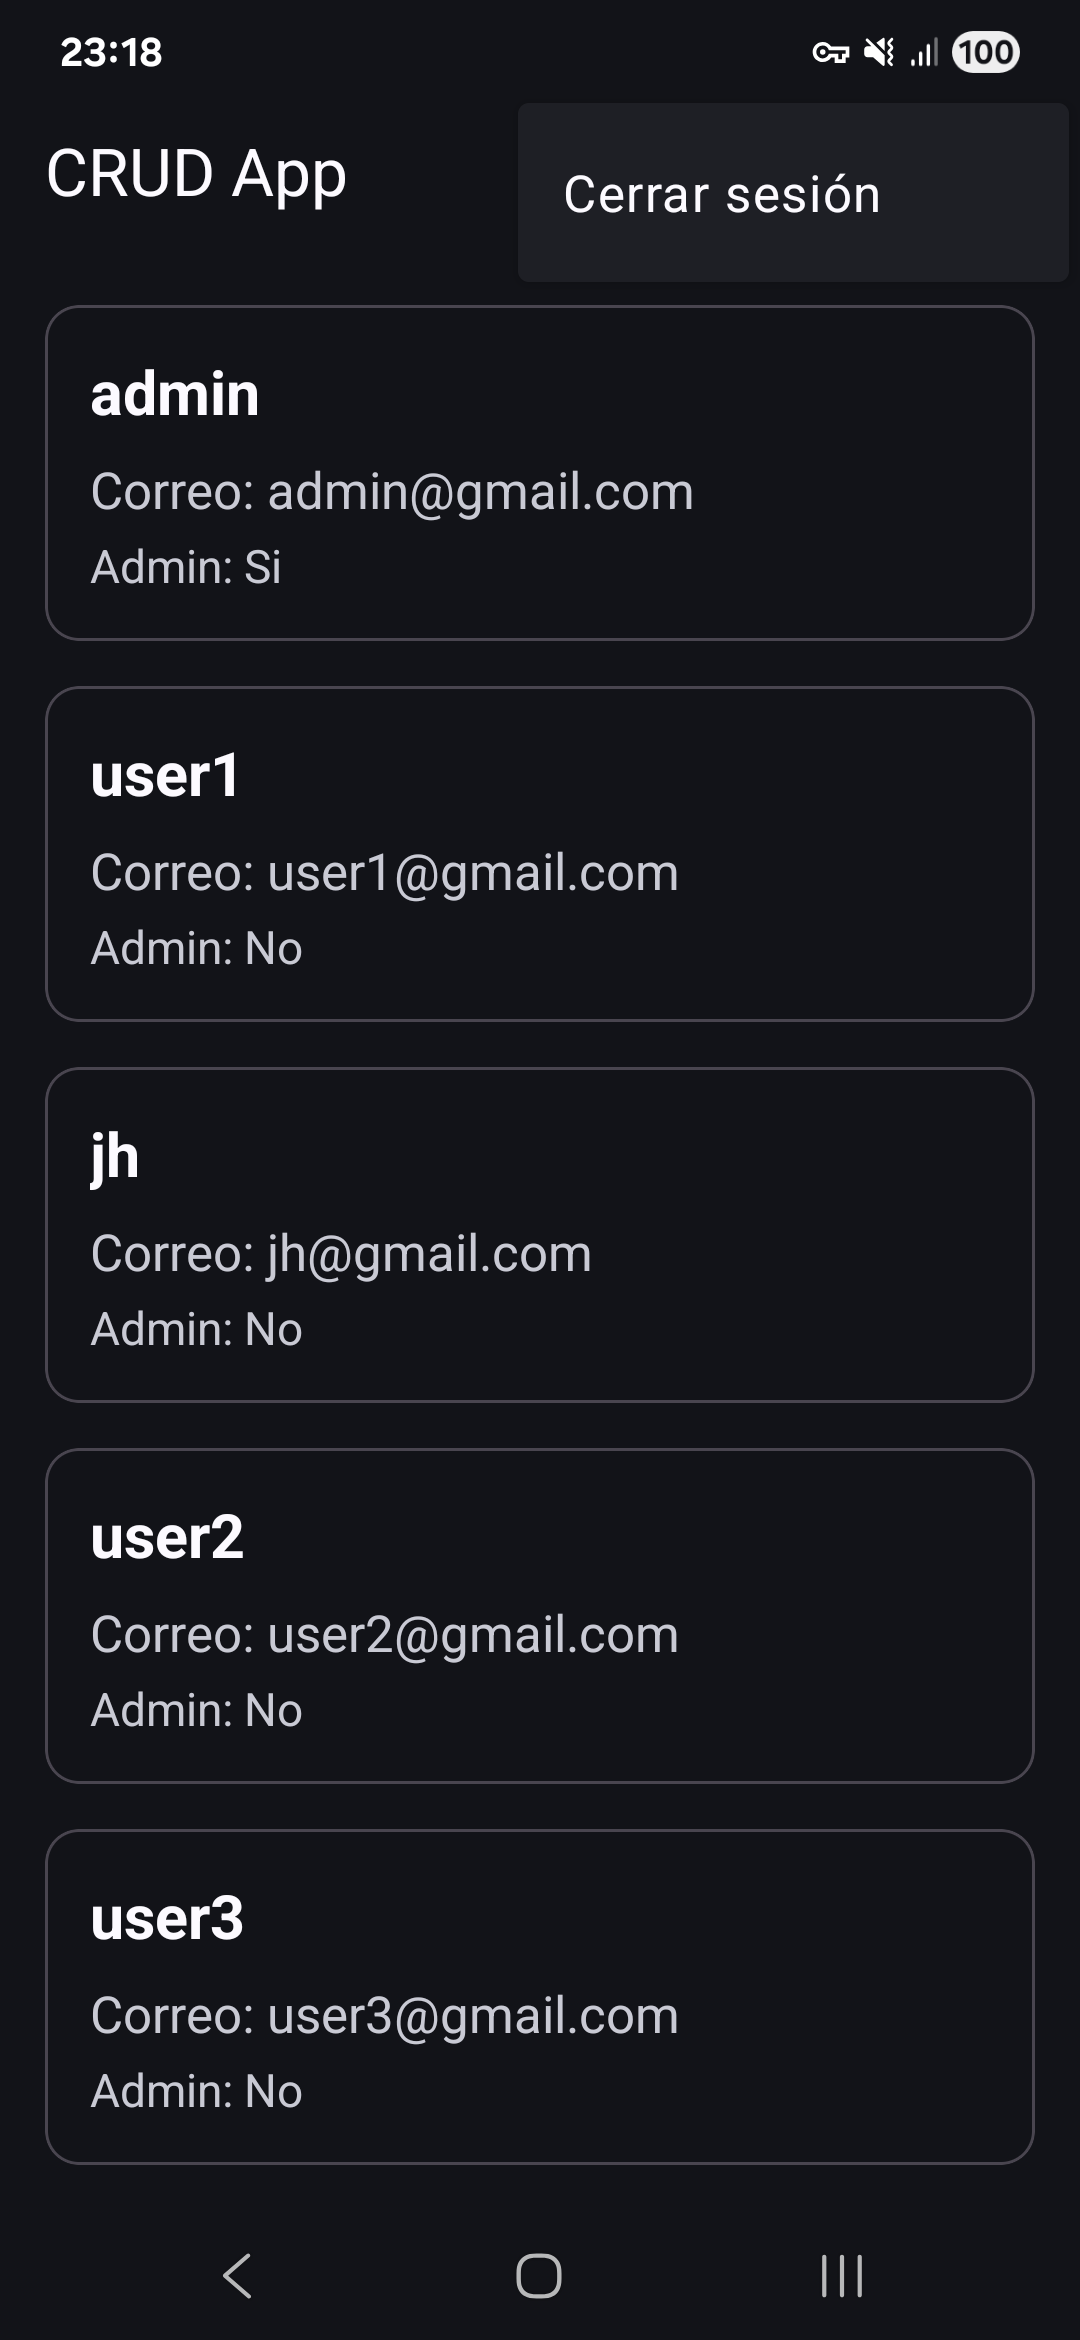
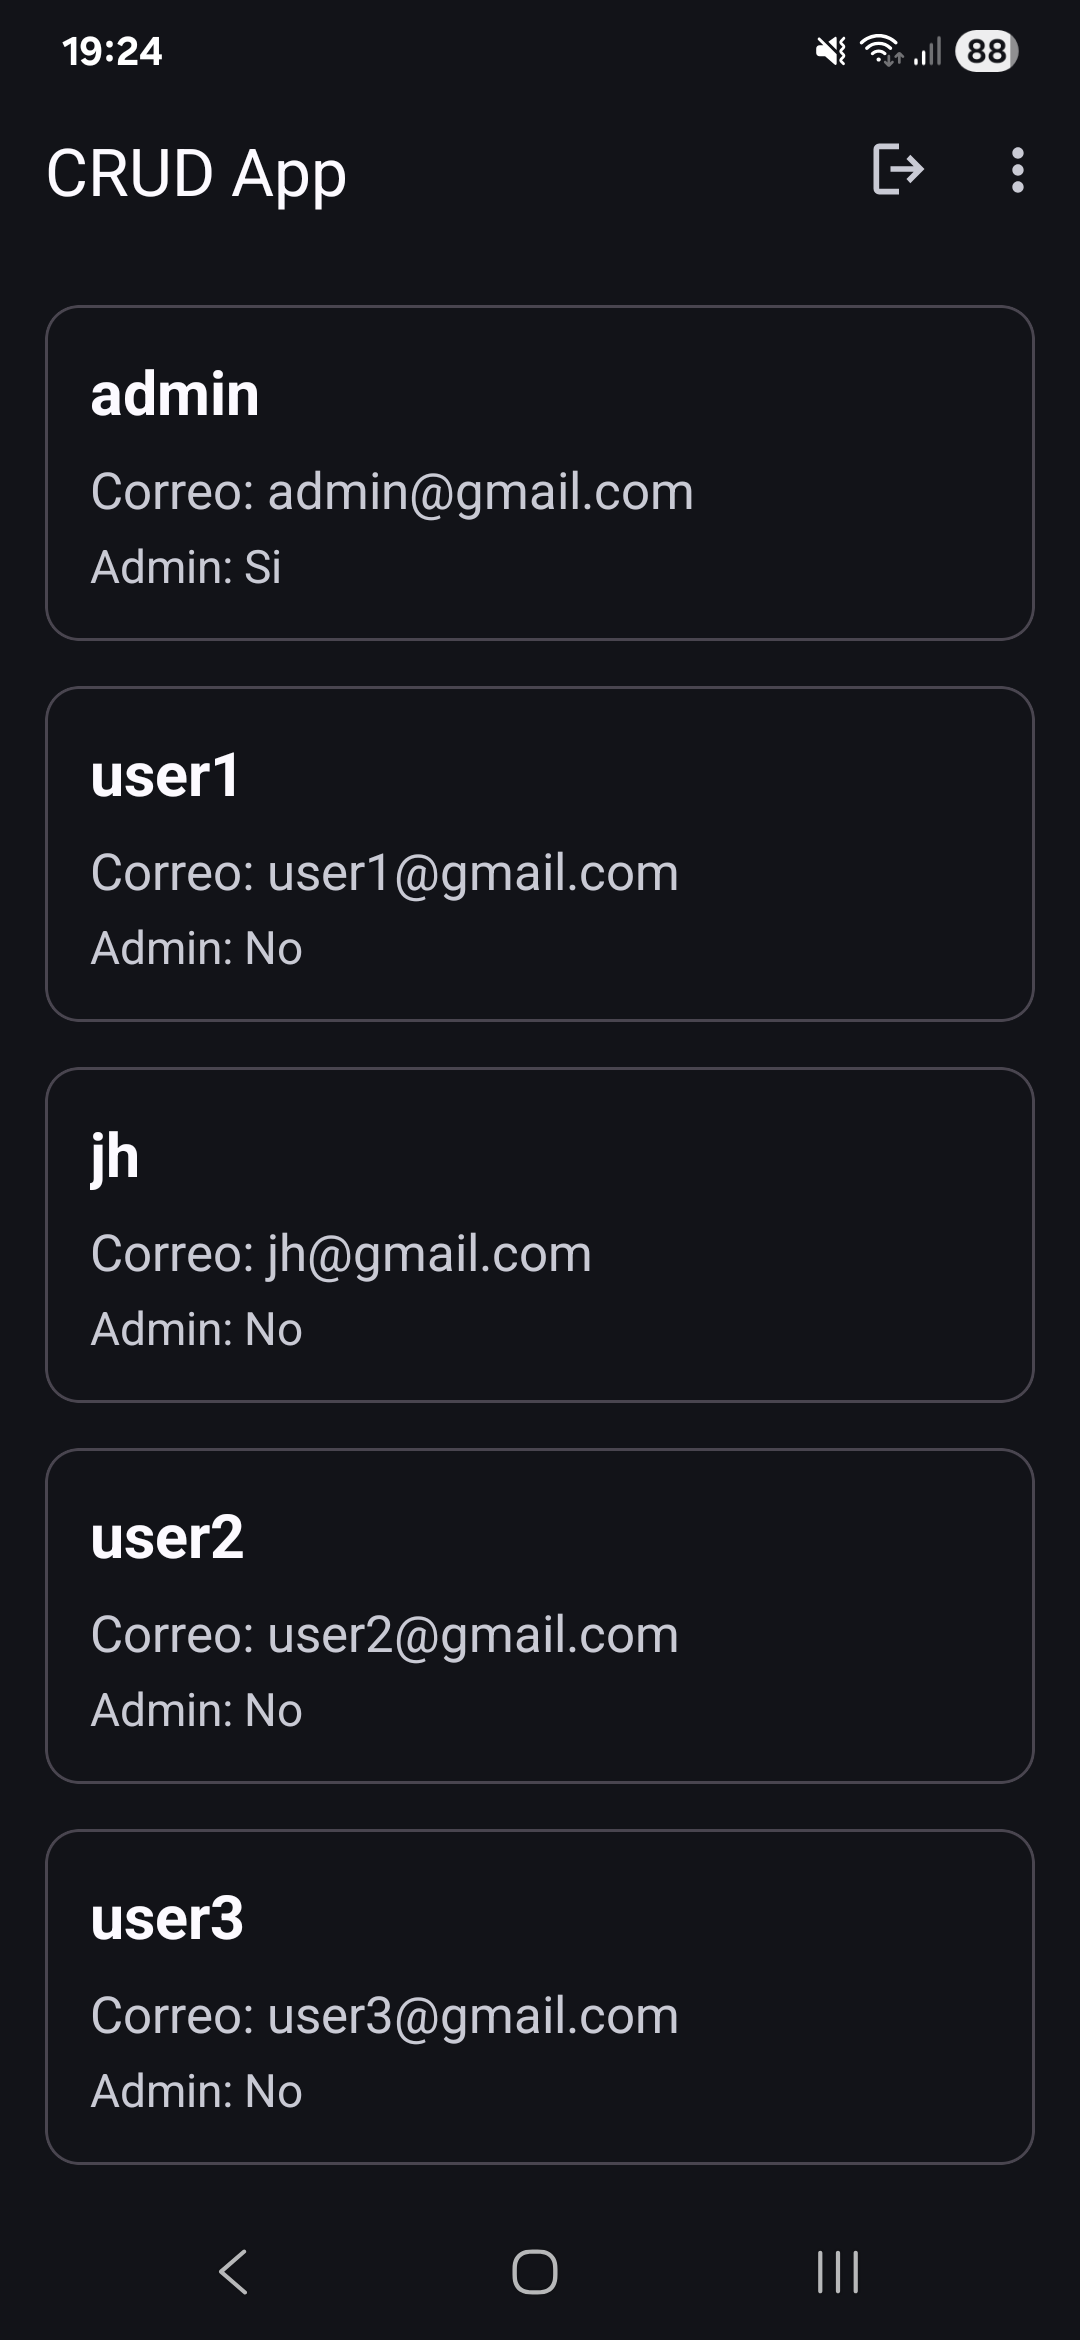
Mejoras en logout

diff --git a/mobile/app/src/main/java/com/jahirtrap/crudapp/SettingsActivity.kt b/mobile/app/src/main/java/com/jahirtrap/crudapp/SettingsActivity.kt
@@ -2,16 +2,13 @@ package com.jahirtrap.crudapp
 
 import android.content.SharedPreferences
 import android.os.Bundle
-import android.view.inputmethod.InputMethodManager
 import androidx.appcompat.app.AppCompatActivity
 import androidx.core.content.edit
 import androidx.preference.Preference
 import androidx.preference.PreferenceFragmentCompat
 import androidx.preference.PreferenceManager
 import com.google.android.material.appbar.MaterialToolbar
-import com.google.android.material.dialog.MaterialAlertDialogBuilder
-import com.google.android.material.textfield.TextInputEditText
-import com.google.android.material.textfield.TextInputLayout
+import com.jahirtrap.crudapp.MainActivity.Companion.showDialog
 import com.jahirtrap.crudapp.api.ApiProvider
 
 class SettingsActivity : AppCompatActivity() {
@@ -45,6 +42,7 @@ class SettingsActivity : AppCompatActivity() {
 
                 preference.setOnPreferenceClickListener {
                     showDialog(
+                        context = requireContext(),
                         title = preference.title,
                         inputText = value,
                         onPositive = { input ->
@@ -61,6 +59,7 @@ class SettingsActivity : AppCompatActivity() {
 
             findPreference<Preference>(getString(R.string.reset_preferences_key))?.setOnPreferenceClickListener {
                 showDialog(
+                    context = requireContext(),
                     title = getString(R.string.reset_preferences_title),
                     message = getString(R.string.reset_preferences_alert_message),
                     onPositive = {
@@ -79,49 +78,6 @@ class SettingsActivity : AppCompatActivity() {
                 )
                 true
             }
-        }
-
-        fun showDialog(
-            title: CharSequence? = "",
-            message: CharSequence? = null,
-            inputText: String? = null,
-            onPositive: (input: String?) -> Unit,
-            onNegative: (() -> Unit)? = null
-        ) {
-            val context = requireContext()
-            val inputLayout: TextInputLayout? = inputText?.let {
-                val layout = TextInputLayout(context).apply {
-                    setPadding(
-                        (16 * context.resources.displayMetrics.density).toInt(),
-                        0,
-                        (16 * context.resources.displayMetrics.density).toInt(),
-                        0
-                    )
-                }
-                val editText = TextInputEditText(context).apply { setText(it) }
-                layout.addView(editText)
-                layout.postDelayed({
-                    editText.apply {
-                        requestFocus()
-                        setSelection(text?.length ?: 0)
-                        val imm =
-                            context.getSystemService(INPUT_METHOD_SERVICE) as InputMethodManager
-                        imm.showSoftInput(this, InputMethodManager.SHOW_IMPLICIT)
-                    }
-                }, 100)
-                layout
-            }
-
-            MaterialAlertDialogBuilder(context)
-                .setTitle(title)
-                .apply {
-                    message?.let { setMessage(it) }
-                    inputLayout?.let { setView(it) }
-                }
-                .setPositiveButton(R.string.accept) { _, _ ->
-                    val input = inputLayout?.editText?.text?.toString()
-                    onPositive(input)
-                }.setNegativeButton(R.string.cancel) { _, _ -> onNegative?.invoke() }.show()
         }
     }
 }

diff --git a/mobile/app/src/main/java/com/jahirtrap/crudapp/ProfileActivity.kt b/mobile/app/src/main/java/com/jahirtrap/crudapp/ProfileActivity.kt
@@ -2,7 +2,10 @@ package com.jahirtrap.crudapp
 
 import android.content.Intent
 import android.os.Bundle
+import android.view.View
+import android.widget.FrameLayout
 import android.widget.TextView
+import androidx.activity.addCallback
 import androidx.appcompat.app.AppCompatActivity
 import androidx.core.view.get
 import com.google.android.material.appbar.MaterialToolbar
@@ -15,6 +18,7 @@ import retrofit2.Callback
 import retrofit2.Response
 
 class ProfileActivity : AppCompatActivity() {
+    private lateinit var progress: FrameLayout
     private lateinit var toolbar: MaterialToolbar
     private lateinit var txtWelcome: TextView
     private lateinit var txtEmail: TextView
@@ -24,6 +28,7 @@ class ProfileActivity : AppCompatActivity() {
         super.onCreate(savedInstanceState)
         setContentView(R.layout.activity_profile)
 
+        progress = findViewById(R.id.progress)
         toolbar = findViewById(R.id.toolbar)
         txtWelcome = findViewById(R.id.txt_welcome)
         txtEmail = findViewById(R.id.txt_email)
@@ -52,6 +57,10 @@ class ProfileActivity : AppCompatActivity() {
         }
 
         loadProfile()
+
+        onBackPressedDispatcher.addCallback(this) {
+            logout()
+        }
     }
 
     private fun loadProfile() {
@@ -75,15 +84,31 @@ class ProfileActivity : AppCompatActivity() {
     }
 
     private fun logout() {
-        ApiProvider.getApi(this).logout().enqueue(object : Callback<ApiResponse> {
-            override fun onResponse(call: Call<ApiResponse>, response: Response<ApiResponse>) {
-                startActivity(Intent(this@ProfileActivity, MainActivity::class.java))
-                finish()
-            }
+        MainActivity.Companion.showDialog(
+            context = this@ProfileActivity,
+            title = getString(R.string.logout),
+            message = getString(R.string.logout_alert_message),
+            onPositive = {
+                progress.visibility = View.VISIBLE
+                ApiProvider.getApi(this).logout().enqueue(object : Callback<ApiResponse> {
+                    override fun onResponse(
+                        call: Call<ApiResponse>,
+                        response: Response<ApiResponse>
+                    ) {
+                        progress.visibility = View.GONE
+                        val intent = Intent(this@ProfileActivity, MainActivity::class.java)
+                        intent.flags =
+                            Intent.FLAG_ACTIVITY_NEW_TASK or Intent.FLAG_ACTIVITY_CLEAR_TASK
+                        startActivity(intent)
+                        finish()
+                    }
 
-            override fun onFailure(call: Call<ApiResponse>, t: Throwable) {
-                showToast(this@ProfileActivity, "Error al cerrar sesión")
+                    override fun onFailure(call: Call<ApiResponse>, t: Throwable) {
+                        progress.visibility = View.GONE
+                        showToast(this@ProfileActivity, "Error al cerrar sesión")
+                    }
+                })
             }
-        })
+        )
     }
 }

diff --git a/mobile/app/src/main/java/com/jahirtrap/crudapp/AdminUsersActivity.kt b/mobile/app/src/main/java/com/jahirtrap/crudapp/AdminUsersActivity.kt
@@ -4,6 +4,8 @@ import android.content.Intent
 import android.graphics.Rect
 import android.os.Bundle
 import android.view.View
+import android.widget.FrameLayout
+import androidx.activity.addCallback
 import androidx.appcompat.app.AppCompatActivity
 import androidx.core.view.get
 import androidx.recyclerview.widget.LinearLayoutManager
@@ -20,6 +22,7 @@ import retrofit2.Callback
 import retrofit2.Response
 
 class AdminUsersActivity : AppCompatActivity() {
+    private lateinit var progress: FrameLayout
     private lateinit var toolbar: MaterialToolbar
     private lateinit var refresh: SwipeRefreshLayout
     private lateinit var rvwUsers: RecyclerView
@@ -30,6 +33,7 @@ class AdminUsersActivity : AppCompatActivity() {
         super.onCreate(savedInstanceState)
         setContentView(R.layout.activity_admin_users)
 
+        progress = findViewById(R.id.progress)
         toolbar = findViewById(R.id.toolbar)
         refresh = findViewById(R.id.refresh)
         rvwUsers = findViewById(R.id.rvw_users)
@@ -83,6 +87,10 @@ class AdminUsersActivity : AppCompatActivity() {
         }
 
         loadUsers()
+
+        onBackPressedDispatcher.addCallback(this) {
+            logout()
+        }
     }
 
     private fun loadUsers() {
@@ -107,15 +115,31 @@ class AdminUsersActivity : AppCompatActivity() {
     }
 
     private fun logout() {
-        ApiProvider.getApi(this).logout().enqueue(object : Callback<ApiResponse> {
-            override fun onResponse(call: Call<ApiResponse>, response: Response<ApiResponse>) {
-                startActivity(Intent(this@AdminUsersActivity, MainActivity::class.java))
-                finish()
-            }
+        MainActivity.Companion.showDialog(
+            context = this@AdminUsersActivity,
+            title = getString(R.string.logout),
+            message = getString(R.string.logout_alert_message),
+            onPositive = {
+                progress.visibility = View.VISIBLE
+                ApiProvider.getApi(this).logout().enqueue(object : Callback<ApiResponse> {
+                    override fun onResponse(
+                        call: Call<ApiResponse>,
+                        response: Response<ApiResponse>
+                    ) {
+                        progress.visibility = View.GONE
+                        val intent = Intent(this@AdminUsersActivity, MainActivity::class.java)
+                        intent.flags =
+                            Intent.FLAG_ACTIVITY_NEW_TASK or Intent.FLAG_ACTIVITY_CLEAR_TASK
+                        startActivity(intent)
+                        finish()
+                    }
 
-            override fun onFailure(call: Call<ApiResponse>, t: Throwable) {
-                showToast(this@AdminUsersActivity, "Error al cerrar sesión")
+                    override fun onFailure(call: Call<ApiResponse>, t: Throwable) {
+                        progress.visibility = View.GONE
+                        showToast(this@AdminUsersActivity, "Error al cerrar sesión")
+                    }
+                })
             }
-        })
+        )
     }
 }

diff --git a/mobile/app/src/main/java/com/jahirtrap/crudapp/MainActivity.kt b/mobile/app/src/main/java/com/jahirtrap/crudapp/MainActivity.kt
@@ -3,12 +3,16 @@ package com.jahirtrap.crudapp
 import android.content.Context
 import android.content.Intent
 import android.os.Bundle
+import android.view.inputmethod.InputMethodManager
 import android.widget.Toast
 import androidx.appcompat.app.AppCompatActivity
 import androidx.core.view.get
 import androidx.viewpager2.adapter.FragmentStateAdapter
 import androidx.viewpager2.widget.ViewPager2
 import com.google.android.material.appbar.MaterialToolbar
+import com.google.android.material.dialog.MaterialAlertDialogBuilder
+import com.google.android.material.textfield.TextInputEditText
+import com.google.android.material.textfield.TextInputLayout
 
 class MainActivity : AppCompatActivity() {
     private lateinit var toolbar: MaterialToolbar
@@ -57,6 +61,49 @@ class MainActivity : AppCompatActivity() {
             toast?.cancel()
             toast = Toast.makeText(context.applicationContext, message, Toast.LENGTH_SHORT)
             toast!!.show()
+        }
+
+        fun showDialog(
+            context: Context,
+            title: CharSequence? = "",
+            message: CharSequence? = null,
+            inputText: String? = null,
+            onPositive: (input: String?) -> Unit,
+            onNegative: (() -> Unit)? = null
+        ) {
+            val inputLayout: TextInputLayout? = inputText?.let {
+                val layout = TextInputLayout(context).apply {
+                    setPadding(
+                        (16 * context.resources.displayMetrics.density).toInt(),
+                        0,
+                        (16 * context.resources.displayMetrics.density).toInt(),
+                        0
+                    )
+                }
+                val editText = TextInputEditText(context).apply { setText(it) }
+                layout.addView(editText)
+                layout.postDelayed({
+                    editText.apply {
+                        requestFocus()
+                        setSelection(text?.length ?: 0)
+                        val imm =
+                            context.getSystemService(INPUT_METHOD_SERVICE) as InputMethodManager
+                        imm.showSoftInput(this, InputMethodManager.SHOW_IMPLICIT)
+                    }
+                }, 100)
+                layout
+            }
+
+            MaterialAlertDialogBuilder(context)
+                .setTitle(title)
+                .apply {
+                    message?.let { setMessage(it) }
+                    inputLayout?.let { setView(it) }
+                }
+                .setPositiveButton(R.string.accept) { _, _ ->
+                    val input = inputLayout?.editText?.text?.toString()
+                    onPositive(input)
+                }.setNegativeButton(R.string.cancel) { _, _ -> onNegative?.invoke() }.show()
         }
     }
 }
